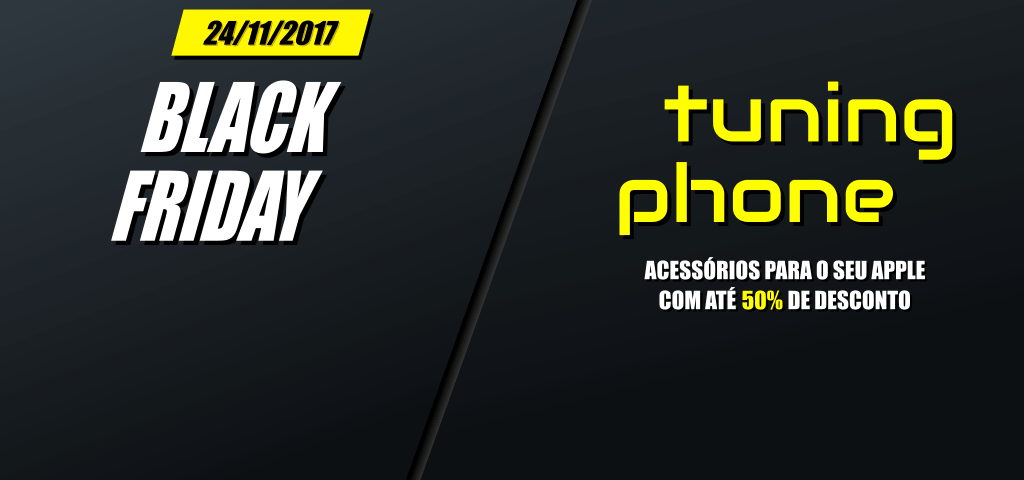
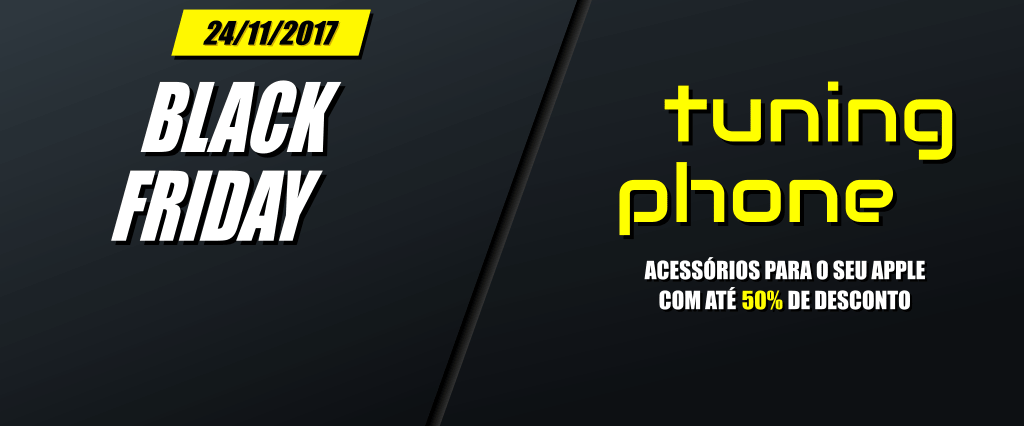
black friday

diff --git a/htm/home.htm b/htm/home.htm
@@ -46,16 +46,16 @@
       
       <div class="carousel-inner">
         <div class="item active">
-            <img width="1024px" height="480px" class="img-fluid slide-image header" src="https://www.rumo.com.br/lojas/000<IdLojaNum>/images/black-friday.png">
+            <img width="1024px" height="426px" class="img-fluid slide-image header" src="https://www.rumo.com.br/lojas/000<IdLojaNum>/images/black-friday.png">
         </div>
         <div class="item">
-            <img width="1024px" height="480px" class="img-fluid slide-image header" src="https://www.rumo.com.br/lojas/000<IdLojaNum>/images/black-friday.png">
+            <img width="1024px" height="426px" class="img-fluid slide-image header" src="https://www.rumo.com.br/lojas/000<IdLojaNum>/images/black-friday.png">
         </div>
         <div class="item">
-            <img width="1024px" height="480px" class="img-fluid slide-image header" src="https://www.rumo.com.br/lojas/000<IdLojaNum>/images/black-friday.png">
+            <img width="1024px" height="426px" class="img-fluid slide-image header" src="https://www.rumo.com.br/lojas/000<IdLojaNum>/images/black-friday.png">
         </div>
         <div class="item">
-            <img width="1024px" height="480px" class="img-fluid slide-image header" src="https://www.rumo.com.br/lojas/000<IdLojaNum>/images/black-friday.png">
+            <img width="1024px" height="426px" class="img-fluid slide-image header" src="https://www.rumo.com.br/lojas/000<IdLojaNum>/images/black-friday.png">
         </div>
       </div>
 
